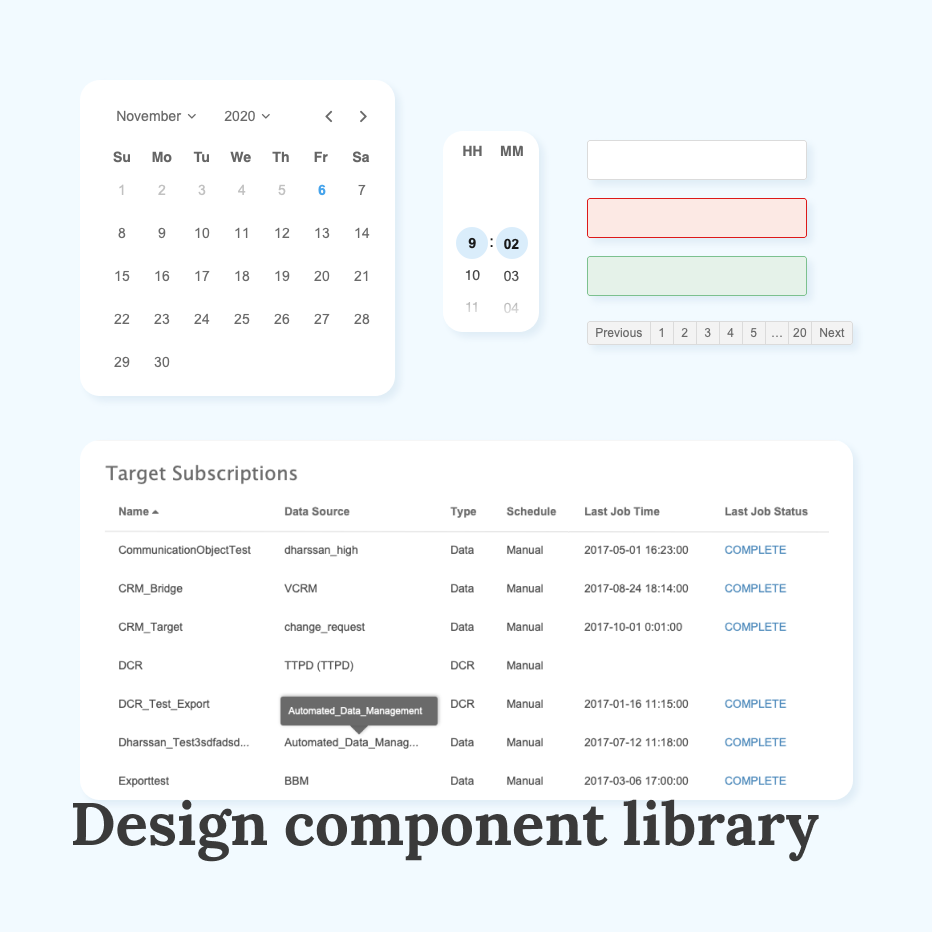
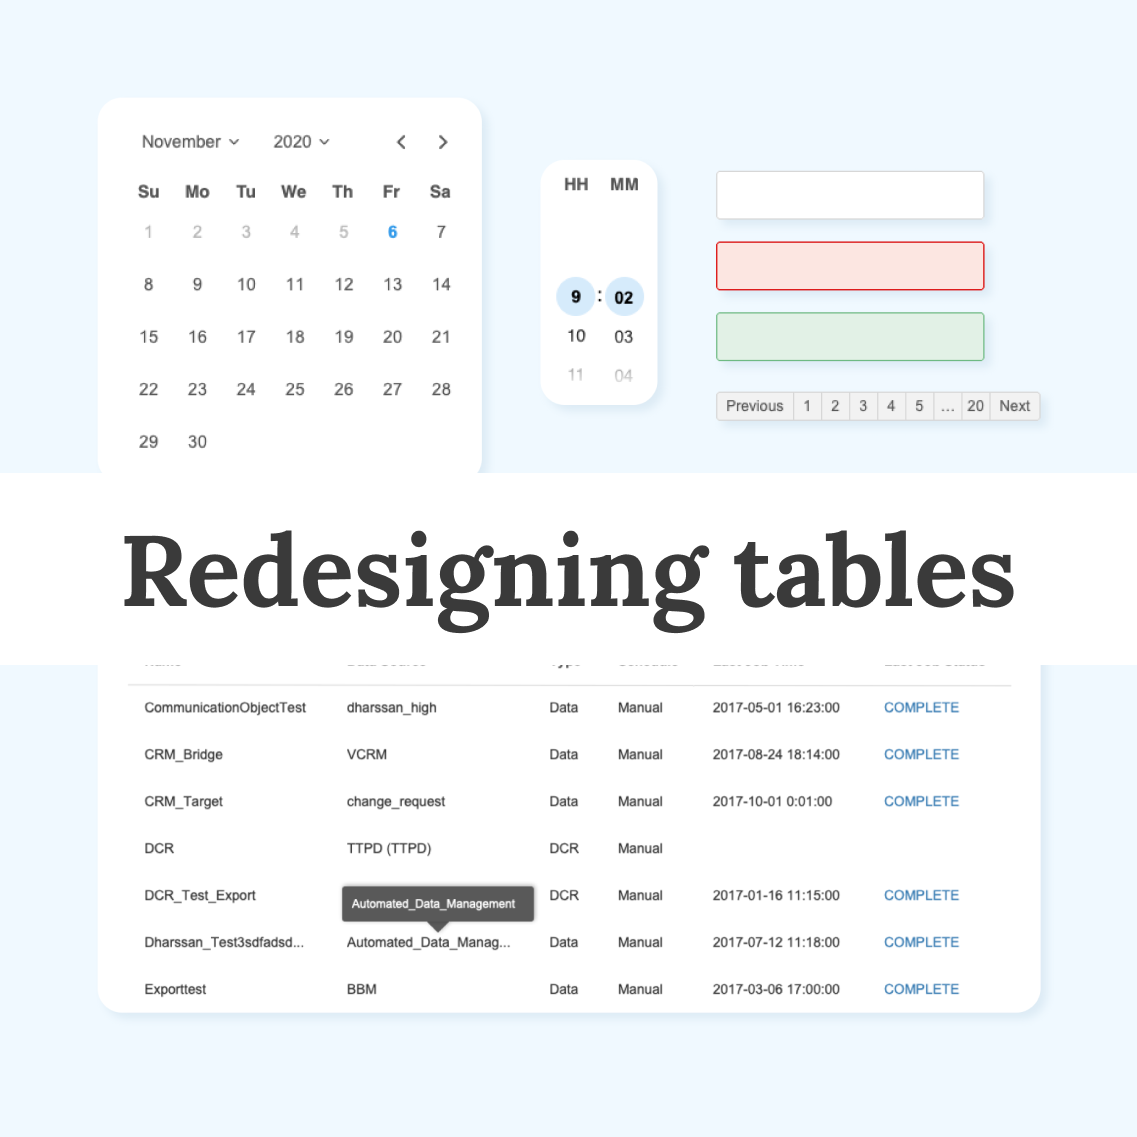
Add New Visual Assets

diff --git a/index.html b/index.html
@@ -45,6 +45,9 @@
                 <a target="_blank" href="https://www.notion.so/nkyang/Creating-a-Design-Component-Library-2c4c86e34fef487bbbb79f89ba97f001">
                     <img src="DesignComponentLibraryHero.png" class="work-thumbnail">
                 </a>
+                <a target="_blank" href="https://www.notion.so/nkyang/Visual-Design-Work-200153ee51454c2b9496b2426ef4fea2">
+                    <img src="Visualdesignworkhero.png" class="work-thumbnail">
+                </a>
             </div>
         </div>
     </div>

diff --git a/styles.css b/styles.css
@@ -292,7 +292,7 @@ h2 {
 }
 
 .slide-left {
-    animation: slide-left 5s 1;
+    animation: slide-left 4s 1;
 }
 
 .fade-slide {
@@ -301,9 +301,9 @@ h2 {
 
 .work-spacing {
     width: 90%;
-    max-width: 738px;
+    max-width: 1107px;
     margin-right: -48px;
-    animation: fadein 5s 1;
+    animation: fadein 4s 1;
 }
 
 .about-gutter {
